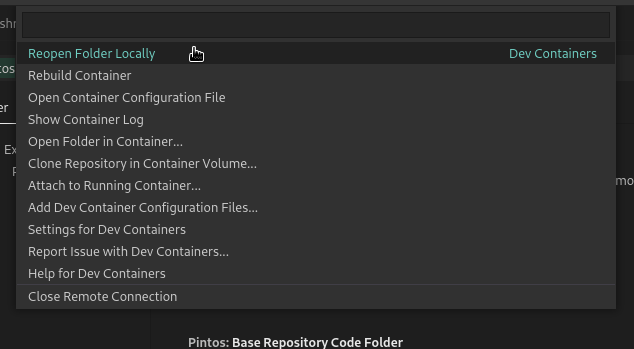
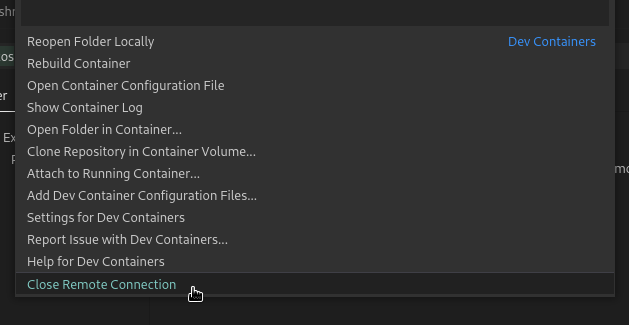
fix: 🐛 stop container docs

diff --git a/docs/pintosvsc/devcontainer/use.md b/docs/pintosvsc/devcontainer/use.md
@@ -27,6 +27,14 @@ dice "Dev Container: PintOS")
 
   ![image](assets/edit-remote-control-button.png)
 
-Y seleccione "Reopen Folder Locally"
+A partir de este punto se pueden tomar 2 acciones:
+
+1. Cerrar la conección
 
   ![image](assets/stop-container.png)
+
+2. Re abrir el folder localmente
+
+  ![image](assets/reopen-local.png)
+
+Cualquiera de las dos anteriores detienen el contenedor iniciado por el editor
